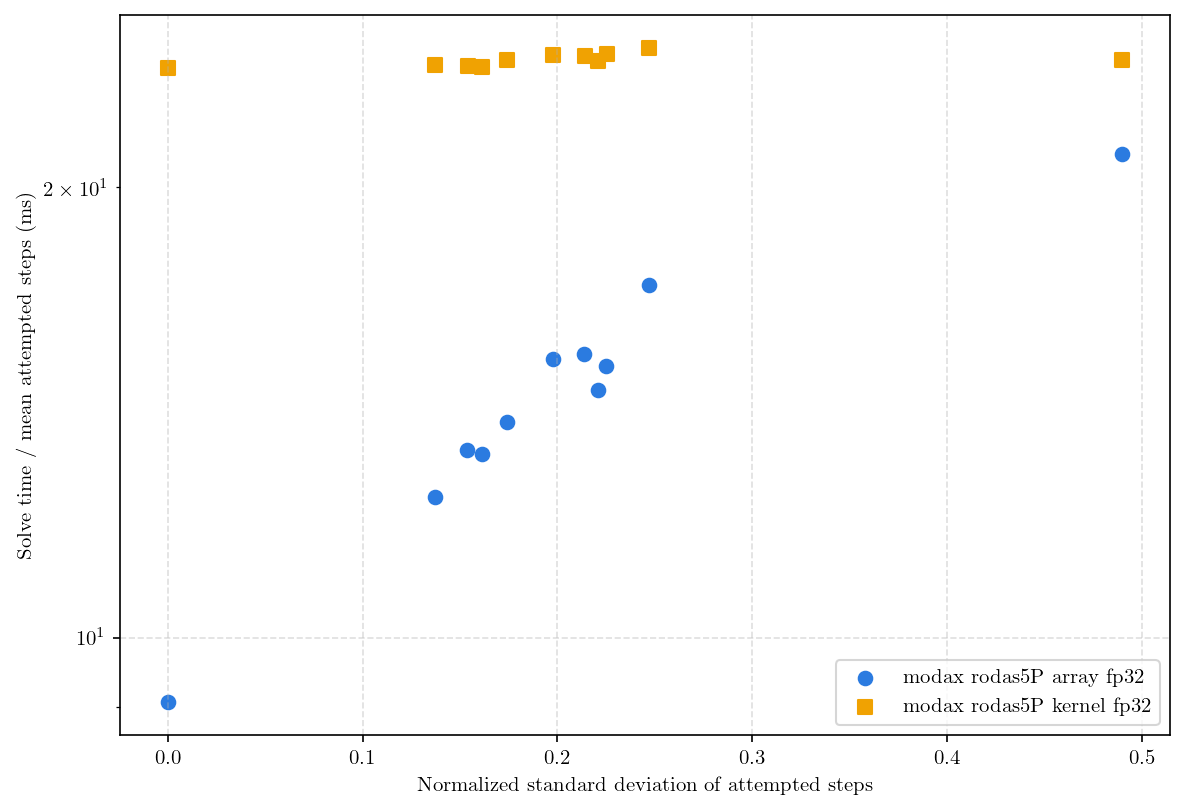
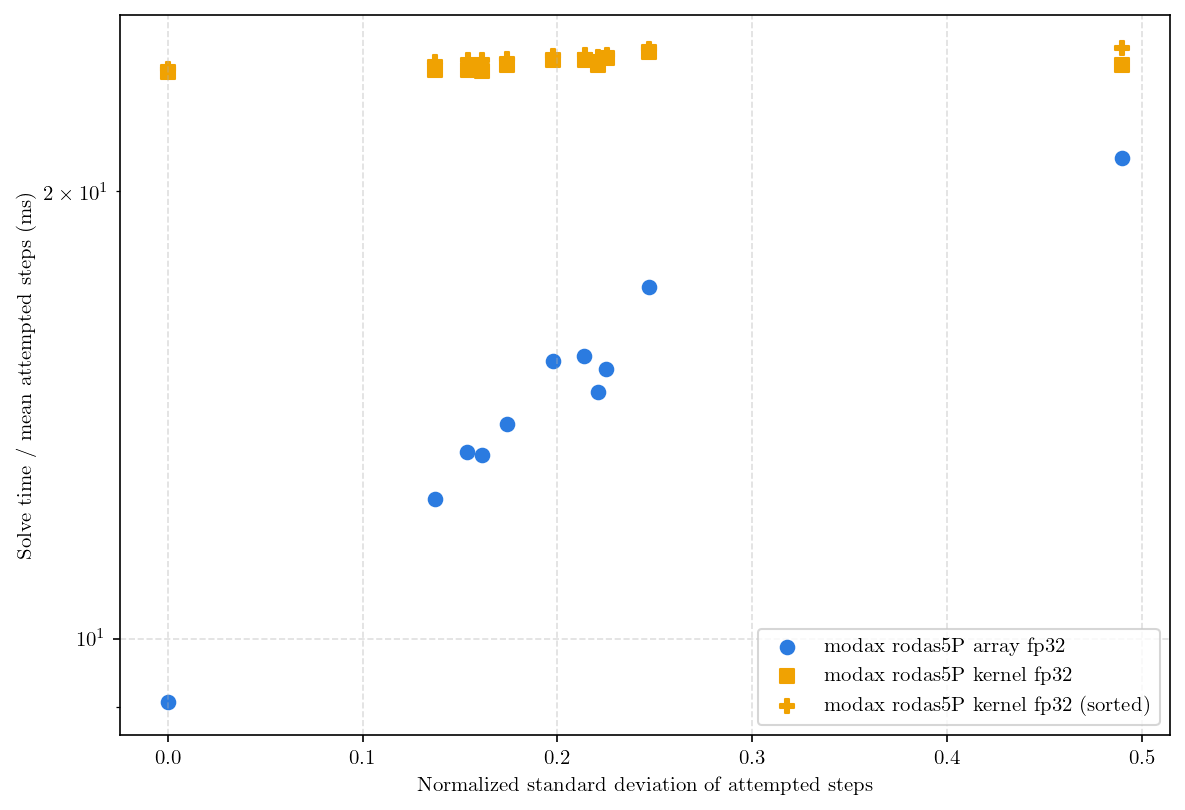
Add sorted-trajectory kernel case to the 96D VDP divergence benchmark
Restore the pre-sorted fp32 custom-kernel series alongside the as-is
kernel and the pure-JAX array solver. At 96D one trajectory already
saturates a block's SRAM, so each runs independently and sorting by
attempted step count has no measurable effect -- the sorted and unsorted
kernel curves overlap.

diff --git a/scripts/10_rodas5P_vdp_divergence/main.py b/scripts/10_rodas5P_vdp_divergence/main.py
@@ -2,9 +2,10 @@
 
 Runs the 96D coupled VDP lattice (n_osc = 48) with 1000 trajectories while
 sweeping the ``make_scenario(..., divergence=...)`` knob, comparing the fp32
-Rodas5P array (JAX) backend against the fp32 Rodas5P custom kernel. For each
-solver and divergence value, the benchmark records solve time and the actual
-distribution of accepted plus rejected Rodas5P steps.
+Rodas5P array (JAX) backend against the fp32 Rodas5P custom kernel, both as-is
+and with trajectories pre-sorted by attempted step count. For each solver and
+divergence value, the benchmark records solve time and the actual distribution
+of accepted plus rejected Rodas5P steps.
 
 Usage:
     uv run python scripts/10_rodas5P_vdp_divergence/main.py
@@ -88,6 +89,13 @@ class Case:
 CASES = (
     Case("modax rodas5P array fp32", "#2b7be0", "o", "stats"),
     Case("modax rodas5P kernel fp32", "#f0a202", "s", "stats"),
+    Case(
+        "modax rodas5P kernel fp32 (sorted)",
+        "#f0a202",
+        "P",
+        "stats",
+        sort_by_steps=True,
+    ),
 )
 
 